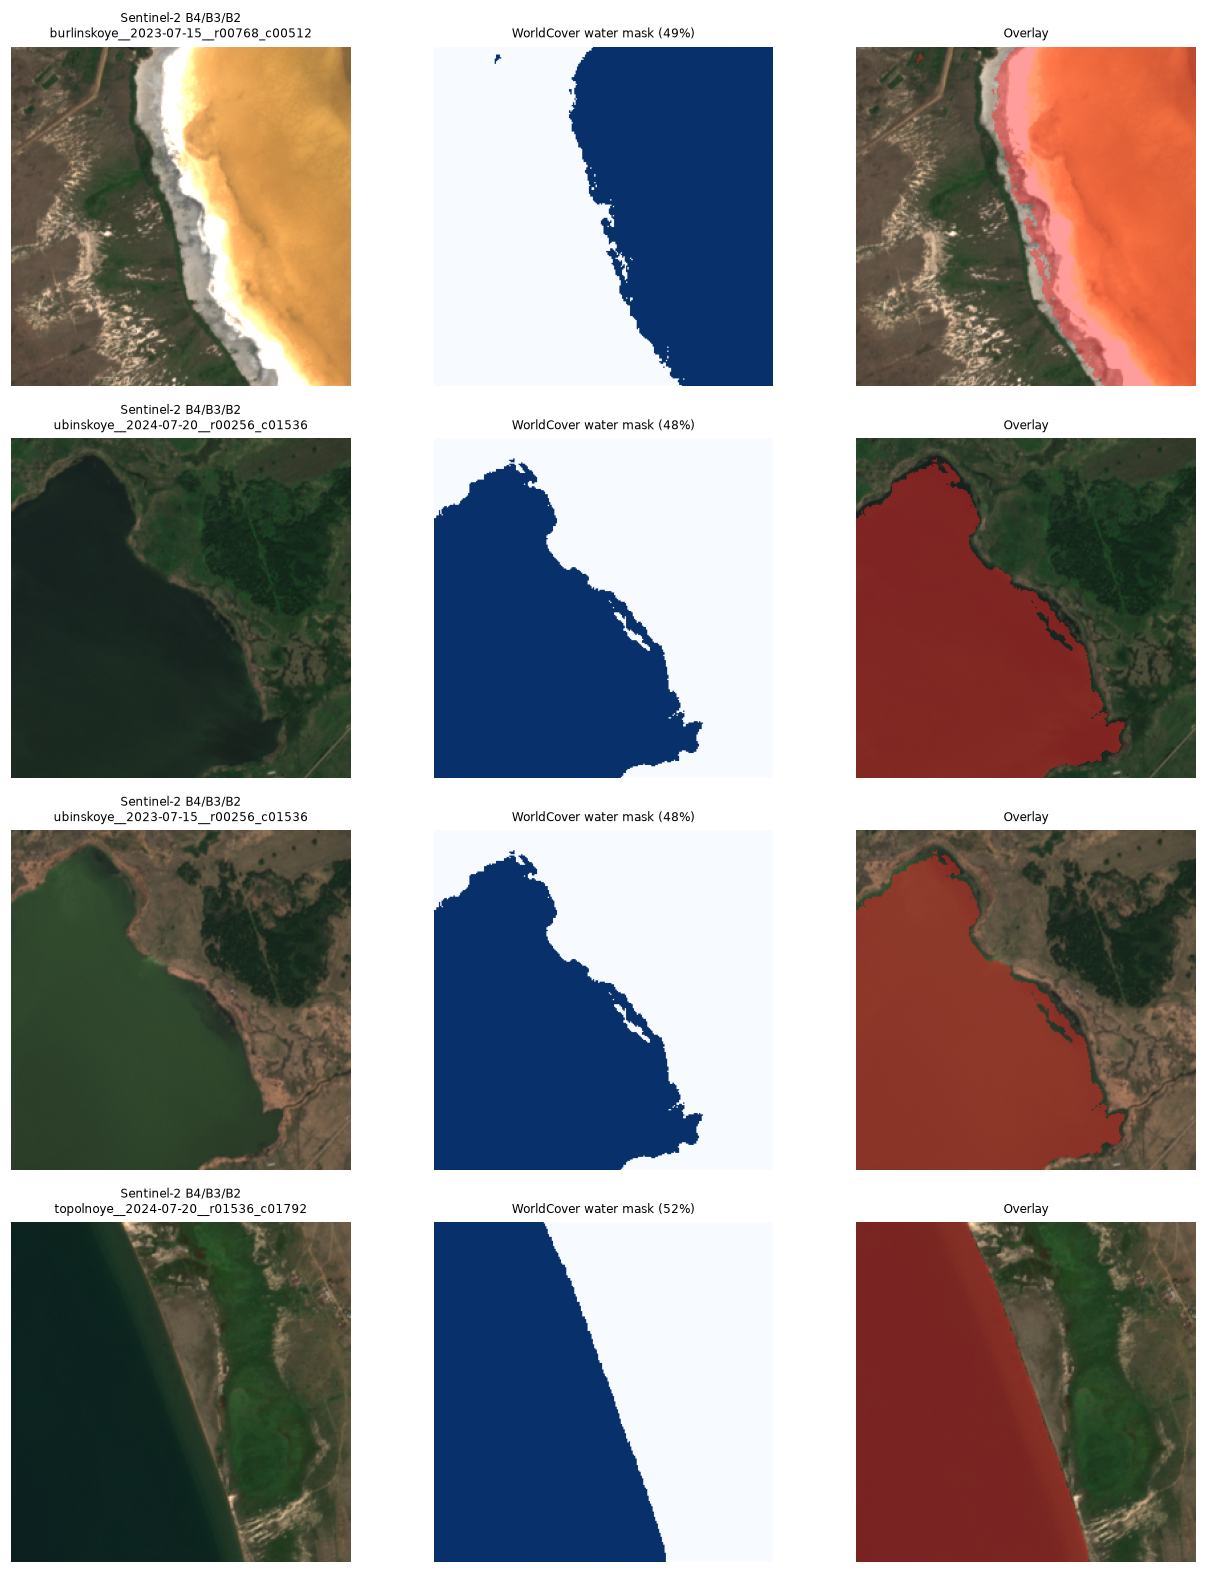
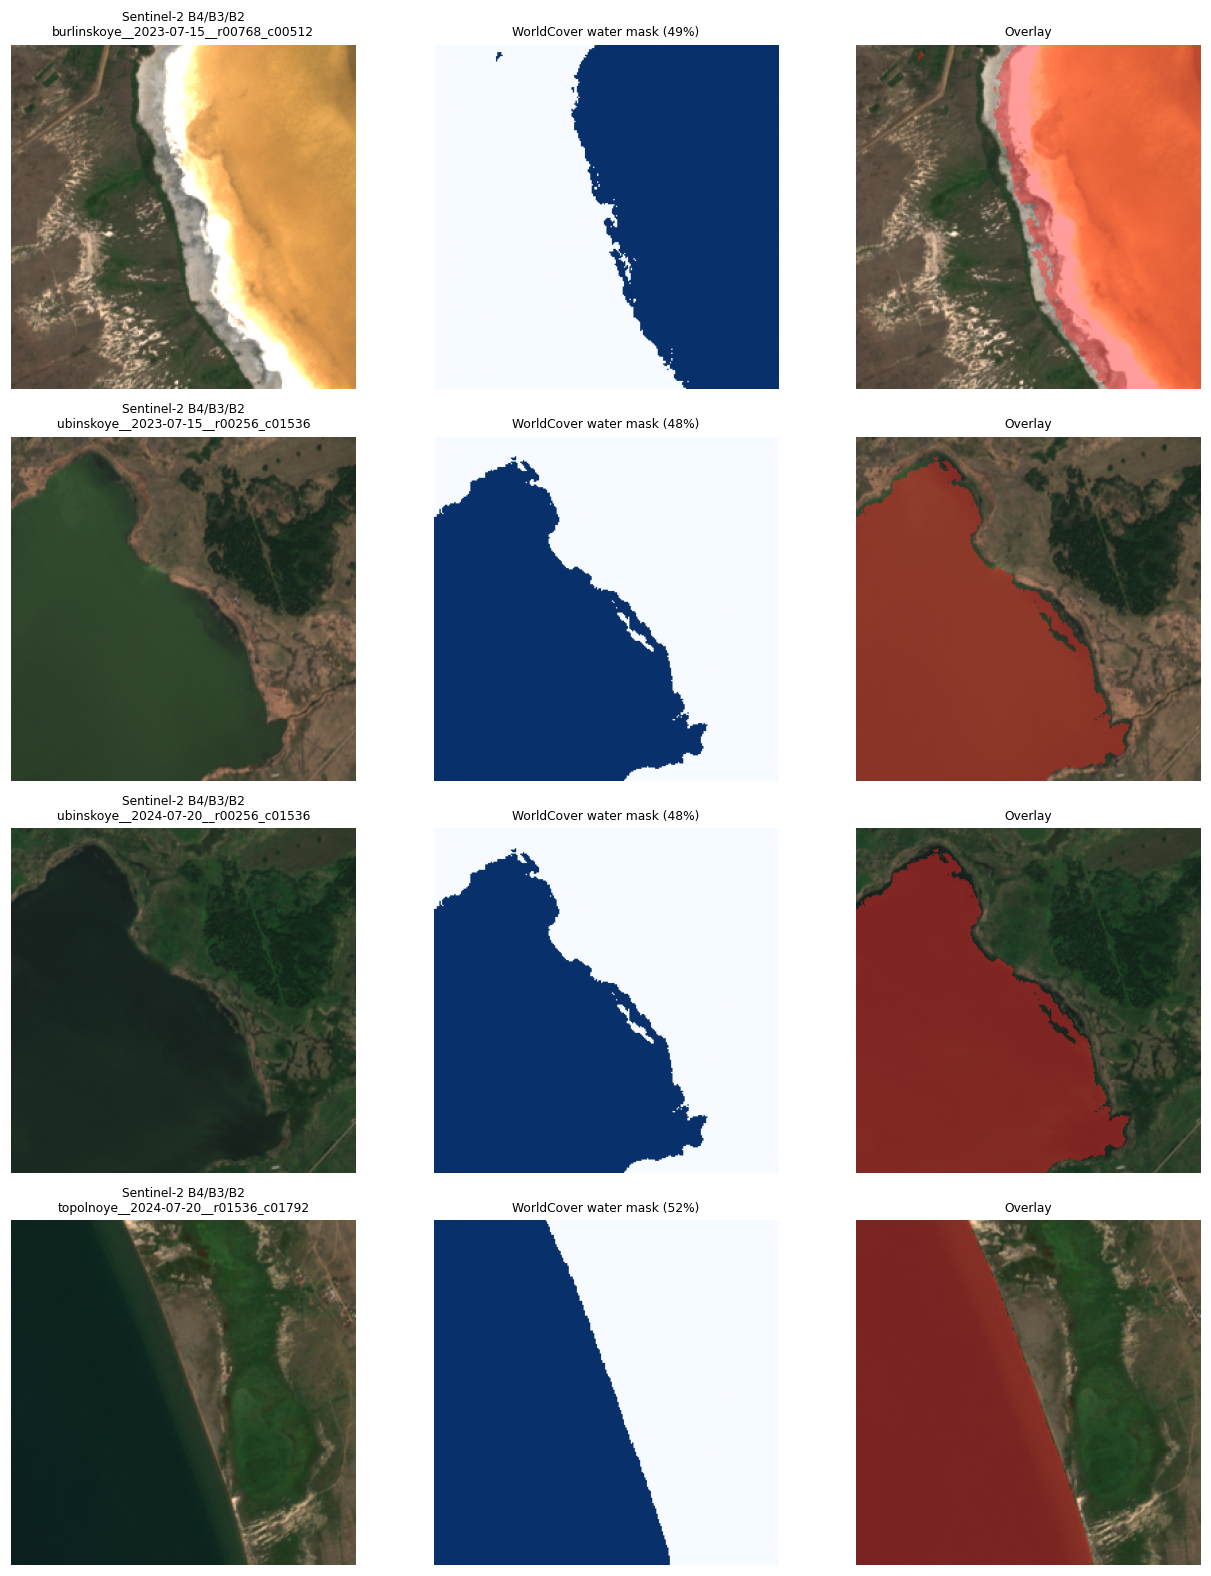
Add the trained model, its metrics and the inference demo
* U-Net ResNet34 trained in Colab (30 epochs, T4): test IoU 0.9627, Dice 0.9810,
  precision 0.9762, recall 0.9858, relative area error 4.94 %.
* NDWI baseline tuned on validation (threshold 0.00): IoU 0.9688, Dice 0.9841.
  The index is very strong on WorldCover labels, which are themselves spectral;
  the network wins on recall, per-image IoU/Dice and mean area error.
* Weights, ONNX model and bundle are versioned with DVC; figures, history and the
  NDWI report are in the repository.
* Fixes found while running: patch sampling used the salted built-in hash (not
  reproducible across processes) and the history callback recorded the sanity
  check as epoch 0. Checkpoint templates no longer contain a metric placeholder,
  which Lightning silently filled with zeros.

diff --git a/src/lake_segmentation/data/pipeline.py b/src/lake_segmentation/data/pipeline.py
@@ -59,7 +59,7 @@ from lake_segmentation.data.stac import (
 from lake_segmentation.data.worldcover import read_water_mask
 from lake_segmentation.logging_utils import get_logger
 from lake_segmentation.plots import save_dataset_preview
-from lake_segmentation.utils import get_git_commit, seed_everything
+from lake_segmentation.utils import get_git_commit, seed_everything, stable_seed
 
 LOGGER = get_logger("data.pipeline")
 
@@ -212,7 +212,7 @@ def build_patch_records(
             )
             candidates = list(iter_candidates(water, stack.valid, patch_size, stride))
             generator = np.random.default_rng(
-                abs(hash((int(cfg.seed), aoi.name, reference.target_date))) % (2**32)
+                stable_seed(int(cfg.seed), aoi.name, reference.target_date)
             )
             selected = select_candidates(
                 candidates=candidates,

diff --git a/tests/test_imports.py b/tests/test_imports.py
@@ -104,3 +104,26 @@ def test_non_mlflow_http_service_is_not_detected_as_tracking_server():
     finally:
         server.shutdown()
         thread.join(timeout=5)
+
+
+def test_stable_seed_is_process_independent():
+    """Sampling seeds must not depend on PYTHONHASHSEED."""
+
+    import subprocess
+    import sys
+
+    code = (
+        "from lake_segmentation.utils import stable_seed;"
+        "print(stable_seed(42, 'chany', '2023-07-15'))"
+    )
+    outputs = {
+        subprocess.run(
+            [sys.executable, "-c", code],
+            capture_output=True,
+            text=True,
+            check=True,
+            env={**__import__("os").environ, "PYTHONHASHSEED": hash_seed},
+        ).stdout.strip()
+        for hash_seed in ("0", "1", "12345")
+    }
+    assert len(outputs) == 1, outputs

diff --git a/src/lake_segmentation/utils.py b/src/lake_segmentation/utils.py
@@ -2,6 +2,7 @@
 
 from __future__ import annotations
 
+import hashlib
 import os
 import random
 import subprocess
@@ -30,6 +31,17 @@ def seed_everything(seed: int) -> None:
         torch.cuda.manual_seed_all(seed)
     torch.backends.cudnn.benchmark = False
     torch.backends.cudnn.deterministic = True
+
+
+def stable_seed(*parts: object) -> int:
+    """Deterministic 64-bit seed from arbitrary values.
+
+    Python's built-in ``hash()`` is salted per process for strings, so it must never be used
+    where reproducibility matters (for example when seeding the per-scene patch sampling).
+    """
+
+    digest = hashlib.sha256("|".join(str(part) for part in parts).encode("utf-8")).digest()
+    return int.from_bytes(digest[:8], "big")
 
 
 def get_git_commit(short: bool = False) -> str:

diff --git a/src/lake_segmentation/training/loggers.py b/src/lake_segmentation/training/loggers.py
@@ -161,7 +161,9 @@ def log_run_metadata(logger: Any, cfg: DictConfig) -> None:
     try:
         from omegaconf import OmegaConf
 
-        config_dump = Path(logger.save_dir if hasattr(logger, "save_dir") else ".") / "config.yaml"
+        # MLflowLogger has ``save_dir=None``, CSVLogger has a real directory.
+        base_dir = getattr(logger, "save_dir", None) or "."
+        config_dump = Path(base_dir) / "config.yaml"
         config_dump.parent.mkdir(parents=True, exist_ok=True)
         OmegaConf.save(cfg, config_dump, resolve=True)
         if isinstance(logger, MLflowLogger):

diff --git a/src/lake_segmentation/training/callbacks.py b/src/lake_segmentation/training/callbacks.py
@@ -57,6 +57,9 @@ class HistoryCallback(Callback):
         self.written: dict[str, Path] = {}
 
     def on_validation_epoch_end(self, trainer: Trainer, pl_module: LightningModule) -> None:
+        # The sanity-check pass reports bogus metrics for epoch 0; it must not be recorded.
+        if trainer.sanity_checking:
+            return
         metrics = trainer.callback_metrics
         epoch = int(trainer.current_epoch)
         values: dict[str, float | None] = {}
